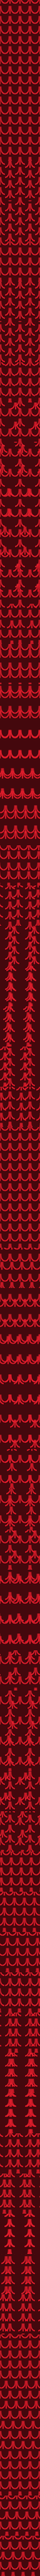
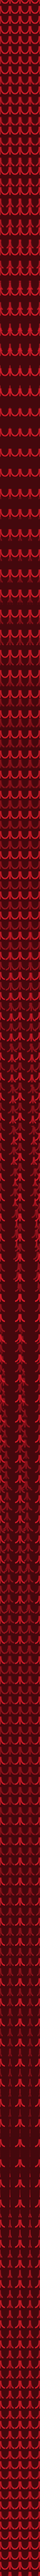
nearly done background generation

diff --git a/background-generator/main.js b/background-generator/main.js
@@ -4,6 +4,16 @@ const { createCanvas, loadImage } = require('canvas')
 const {downloadFavicon} = require('./downloadFavicon.js')
 const TweenJs = require('@tweenjs/tween.js')
 const hash = require('object-hash');
+const hashOptions = {
+    excludeKeys:(key)=>{
+        if(key === "x" || key === "y"){
+            return true
+        }
+        return false
+    }
+}
+const RNG = require("./RNG.js")
+const Random = new RNG(123)
 
 let web_address = `https://www.atari.com/`
 let converted_favicon_path = path.resolve('.',`favicon.png`)
@@ -28,7 +38,7 @@ async function generateAnimation(converted_favicon_path,output_path,preview=true
 
     let canvas = createCanvas(width, height)
     let ctx = canvas.getContext('2d')
-    ctx.imageSmoothingEnabled = false
+    ctx.imageSmoothingEnabled = true
 
     if(preview){
         var preview_canvas = createCanvas(width*2, height*2)
@@ -43,7 +53,7 @@ async function generateAnimation(converted_favicon_path,output_path,preview=true
     }
 
     let parameters = {
-        spacing:0,
+        spacing:Random.Integer(0,1)*16,
         faviconScaling:1
     }
 
@@ -78,8 +88,8 @@ class StaticAnimation{
 
         this.faviconScaledSize = favicon.width*faviconScaling
         this.spacing = spacing + this.faviconScaledSize
-        this.rows = (this.width/this.faviconScaledSize)+4
-        this.columns = (this.height/this.faviconScaledSize)+4
+        this.rows = (this.width/this.faviconScaledSize)+20
+        this.columns = (this.height/this.faviconScaledSize)+20
 
         this.xStart = -spacing
         this.yStart = -spacing
@@ -98,9 +108,9 @@ class StaticAnimation{
         //Generate icons
         //This data can be tweened for animations!
         this.icons = {}
-        for(let row = -2; row < this.rows; row++){
+        for(let row = -10; row < this.rows; row++){
             let x = this.xStart + row*(this.spacing)
-            for(let column = -2; column < this.columns; column++){
+            for(let column = -10; column < this.columns; column++){
                 let y = this.yStart + column*(this.spacing)
                 let newIcon = {
                     x:x,
@@ -111,10 +121,11 @@ class StaticAnimation{
                     row:row,
                     column:column
                 }
-                let iconHash = hash(newIcon)
+                let iconHash = hash(newIcon,hashOptions)
                 this.icons[iconHash] = newIcon
             }
         }
+        this.initialIcons = JSON.parse(JSON.stringify(this.icons))
 
         //Read middle pixel color to generate a background color
         this.getBackgroundColorFromFavicon()
@@ -168,25 +179,24 @@ class TweenedAnimation extends StaticAnimation{
         this.frames = 64
 
         this.tweenTargets = []
-        let animationStages = 20
-
+        let animationStages = 2
         for(let stage = 0; stage < animationStages; stage++){
-            this.generateTweenStage()
+            if(stage == 0){
+                this.generateTweenStage(this.icons)
+            }else{
+                this.generateTweenStage(this.tweenTargets[this.tweenTargets.length-1])
+            }
         }
-        let lastStageHash = hash(this.tweenTargets[this.tweenTargets.length-1])
-        let firstStageHash = hash(this.icons)
-        if(lastStageHash != firstStageHash){
-            //If the last stage does not match the first, generate a final stage matching the first
-            this.tweenTargets.push(JSON.parse(JSON.stringify(this.icons)))
-        }
+        this.generateResetTween(this.tweenTargets[this.tweenTargets.length-1])
 
-        let easingTypes = [TweenJs.Easing.Quadratic.InOut,TweenJs.Easing.Circular.InOut,TweenJs.Easing.Exponential.InOut,TweenJs.Easing.Bounce.InOut]
+        let easingTypes = [TweenJs.Easing.Quadratic.InOut,TweenJs.Easing.Linear.None]
+        let easingType = easingTypes[Random.Integer(0,easingTypes.length-1)]
 
         let tweens = []
         let index = 0
         for(let tweenTarget of this.tweenTargets){
             let tweenDuration = this.frames/this.tweenTargets.length
-            let newTween = new TweenJs.Tween(this.icons).to(tweenTarget,tweenDuration).easing(TweenJs.Easing.Linear.None)
+            let newTween = new TweenJs.Tween(this.icons).to(tweenTarget,tweenDuration).easing(easingType)
             if(index > 0){
                 tweens[index-1].chain(newTween)
             }else{
@@ -196,45 +206,87 @@ class TweenedAnimation extends StaticAnimation{
             index++
         }
         tweens[0].start()
-        /*
-        let tA = new TweenJs.Tween(this.icons).to(tweenTarget1,this.frames/2).easing(TweenJs.Easing.Quadratic.InOut).start(0)
-        let tB = new TweenJs.Tween(this.icons).to(tweenTarget2,this.frames/2).easing(TweenJs.Easing.Quadratic.InOut)
-        tA.chain(tB)
-        */
     }
-    generateTweenStage(){
-        let horizontalAnimation = randomBool()
-        let everySecondColumn = randomBool()
-        let verticalAnimation = randomBool()
-        let everySecondRow = randomBool()
-        var tweenTargets = {}
-        for(let iconHash in this.icons){
-            let icon = this.icons[iconHash]
-            let iconCopy = JSON.parse(JSON.stringify(icon))
+    generateTweenStage(previousStage){
+        let horizontalDirection = Random.Integer(-1,1)
+        let verticalDirection = Random.Integer(-1,1)
+
+        let everySecondColumn = Random.Bool()
+        let everySecondRow = Random.Bool()
+        let invertSelection = Random.Bool()
+
+        let flipDirection = Random.Integer(-1,1)
+        let flopDirection = Random.Integer(-1,1)
+
+        let rotationDirection = Random.Integer(-1,1)
+        let halfRotations = Random.Integer(1,2)
+        var tweenIcons = JSON.parse(JSON.stringify(previousStage))
+        for(let iconHash in tweenIcons){
+            let icon = tweenIcons[iconHash]
+            let translationMulti = 2
+            let skip = false
             if(everySecondColumn && icon.column % 2 == 0){
-                continue
+                skip = true
             }
             if(everySecondRow && icon.row % 2 == 0){
+                skip = true
+            }
+            if(invertSelection){
+                skip = !skip
+            }
+            if(skip){
                 continue
             }
-            if(horizontalAnimation){
-                let multi = 1
-                if(everySecondRow){
-                    multi = 2
-                }
-                iconCopy.x += this.spacing*multi
+            let transforms = 0
+            let maxTransforms = 3
+            if(horizontalDirection != 0 && transforms < maxTransforms){
+                let places = translationMulti*horizontalDirection
+                icon.x += this.spacing*places
+                icon.row += places
+                transforms++
             }
-            if(verticalAnimation){
-                let multi = 1
-                if(everySecondColumn){
-                    multi = 2
-                }
-                iconCopy.y += this.spacing*multi
+            if(verticalDirection != 0 && transforms < maxTransforms){
+                let places = translationMulti*verticalDirection
+                icon.y += this.spacing*places
+                icon.col += places
+                transforms++
             }
-            tweenTargets[iconHash] = iconCopy
+            if(flipDirection != 0 && transforms < maxTransforms){
+                icon.xScale = flipDirection
+                transforms++
+            }
+            if(flopDirection != 0 && transforms < maxTransforms){
+                icon.yScale = flopDirection
+                transforms++
+
+            }
+            if(rotationDirection != 0 && transforms < maxTransforms){
+                let angleDelta = halfRotations*rotationDirection*180
+                icon.rotation += angleDelta
+                transforms++
+            }
+            tweenIcons[iconHash] = icon
         }
-        console.log(tweenTargets)
-        this.tweenTargets.push(tweenTargets)
+        this.tweenTargets.push(tweenIcons)
+    }
+    generateResetTween(previousStage){
+        let resetStage = JSON.parse(JSON.stringify(previousStage))
+        for(let iconHash in this.icons){
+            let icon = this.icons[iconHash]
+            let latestCopy = previousStage[iconHash]
+            let finalCopy = resetStage[iconHash]
+            if(icon.rotation % 360 != latestCopy.rotation % 360){
+                finalCopy.rotation = icon.rotation
+            }
+            if(icon.xScale != latestCopy.xScale){
+                finalCopy.xScale = icon.xScale
+            }
+            if(icon.yScale != latestCopy.yScale){
+                finalCopy.yScale = icon.yScale
+            }
+        }
+        this.tweenTargets.push(resetStage)
+        console.log('reset tween')
     }
 }
 
@@ -281,8 +333,4 @@ function drawImage(ctx, img, x, y, width, height, deg, flip, flop, center) {
     ctx.drawImage(img, -width/2, -height/2, width, height);
     
     ctx.restore();
-}
-
-function randomBool(){
-    return Math.random() > 0.5
 }

diff --git a/background-generator/RNG.js b/background-generator/RNG.js
@@ -1,0 +1,26 @@
+class RNG{
+    constructor(startingSeed){
+        this.seed = startingSeed
+    }
+    Bool(){
+        return Math.random() > 0.5
+    }
+    Float() {
+        var x = Math.sin(this.seed++) * 10000;
+        return x - Math.floor(x);
+    }
+    Integer(min,max){
+        min = Math.ceil(min);
+        max = Math.floor(max);
+        return Math.floor(Math.random() * (max - min + 1) + min); //The maximum is inclusive and the minimum is inclusive
+    }
+    RandomPositionOnCircumference(radius) {
+        var angle = this.Float() * Math.PI * 2;
+        return {
+            x: Math.cos(angle) * radius,
+            y: Math.sin(angle) * radius
+        }
+    }
+}
+
+module.exports = RNG
